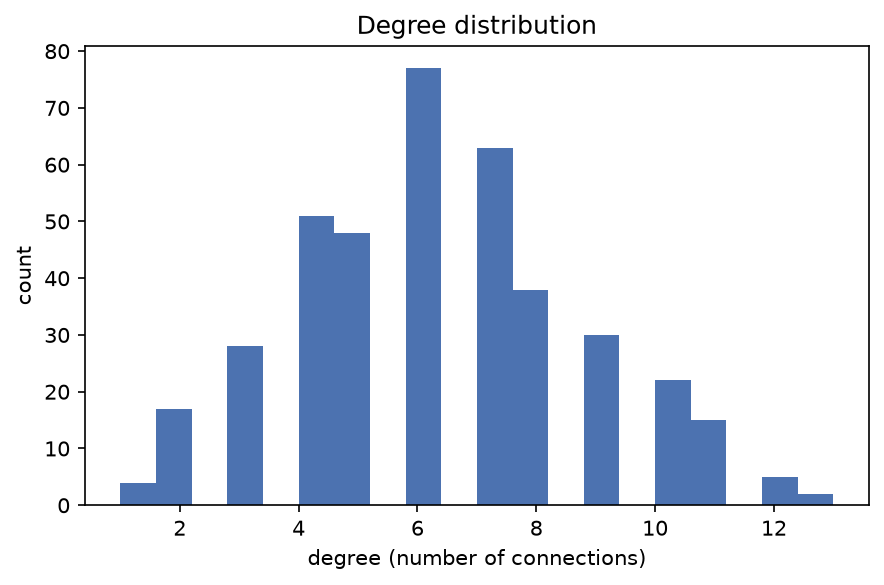
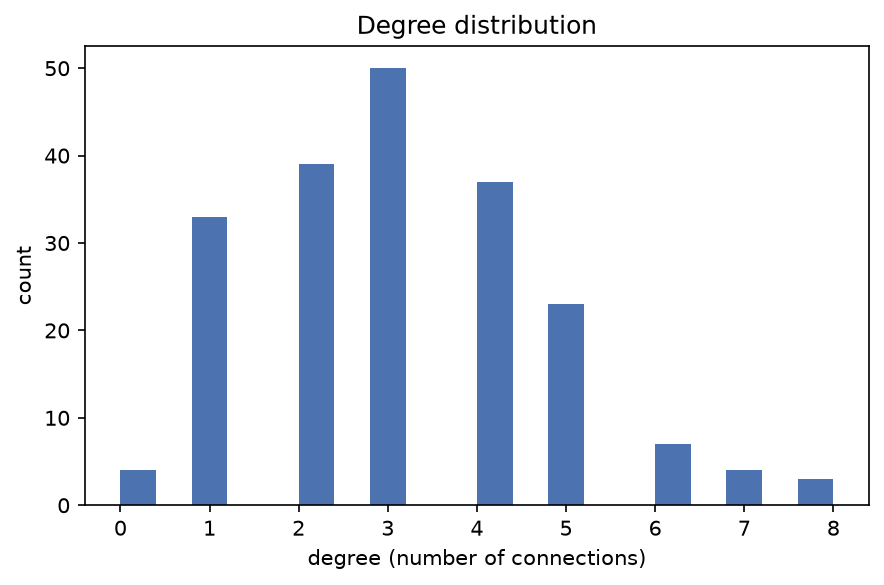
description of synthCity variables

diff --git a/synth_city/synth_city_details.py b/synth_city/synth_city_details.py
@@ -1,0 +1,117 @@
+import sys, os
+
+import matplotlib.cm as cm
+import matplotlib.colors as mcolors
+import matplotlib.pyplot as plt
+import networkx as nx
+import numpy as np
+import pandas as pd
+
+
+'''
+Set pathway for calling Synth City:
+'''
+def find_project_root(marker="requirements.txt"):
+    path = os.getcwd()
+    while path != os.path.dirname(path):  # stop at filesystem root
+        if os.path.exists(os.path.join(path, marker)):
+            return path
+        path = os.path.dirname(path)
+    raise FileNotFoundError(f"couldn't find project root (looking for {marker})")
+
+PROJECT_ROOT = find_project_root()
+if PROJECT_ROOT not in sys.path:
+    sys.path.insert(0, PROJECT_ROOT)
+
+from synth_city.scm.graph import SynthCity
+
+'''
+Set pathway for saving figures:
+'''
+FIGURES_DIR = os.path.join(os.path.dirname(__file__), "figures")
+os.makedirs(FIGURES_DIR, exist_ok=True)
+
+ 
+N = 10_000
+SEED = 0
+ 
+# Nodes worth plotting as distributions (excludes policy nodes -- those are
+# constants under a given policy, not distributions, so a histogram of them
+# is just a spike and not informative).
+STOCHASTIC_NODES = [
+    "ability", "risk_tolerance", "health_endowment", "parental_ses", "age",
+    "education", "social_network_position", "income", "mobility_access",
+    "health", "preferences",
+]
+ 
+LATENT_NODES = {"ability", "risk_tolerance", "health_endowment", "parental_ses", "age"}
+ 
+city = SynthCity(n_people=N, seed=SEED)
+df = city.sample()
+ 
+fig, axes = plt.subplots(4, 3, figsize=(13, 12))
+axes = axes.flatten()
+ 
+for ax, node in zip(axes, STOCHASTIC_NODES):
+    color = "#8172B2" if node in LATENT_NODES else "#4C72B0"
+    ax.hist(df[node], bins=40, color=color)
+    ax.set_title(node, fontsize=11)
+    ax.set_ylabel("count", fontsize=8)
+    ax.tick_params(labelsize=8)
+ 
+# hide the unused 12th subplot slot, and use it for a tiny legend instead
+axes[-1].axis("off")
+axes[-1].text(0.0, 0.7, "\u25A0 latent / exogenous", color="#8172B2", fontsize=11, transform=axes[-1].transAxes)
+axes[-1].text(0.0, 0.5, "\u25A0 endogenous", color="#4C72B0", fontsize=11, transform=axes[-1].transAxes)
+axes[-1].text(0.0, 0.25, f"n = {N:,}\nseed = {SEED}\npolicy = default", fontsize=9, transform=axes[-1].transAxes)
+ 
+fig.suptitle("Synth City \u2014 marginal distribution of every SCM node", fontsize=14)
+fig.tight_layout(rect=[0, 0, 1, 0.97])
+fig.savefig(os.path.join(FIGURES_DIR, "node_distributions.png"), dpi=150, bbox_inches="tight")
+ 
+# ---------------------------------------------------------------------------
+# Summary stats table
+# ---------------------------------------------------------------------------
+# ---------------------------------------------------------------------------
+# Summary stats table
+# ---------------------------------------------------------------------------
+summary = df[STOCHASTIC_NODES].describe().T[["mean", "std", "min", "max"]]
+summary.insert(0, "type", ["latent" if n in LATENT_NODES else "endogenous" for n in STOCHASTIC_NODES])
+for col in ["mean", "std", "min", "max"]:
+    summary[col] = summary[col].map(lambda x: f"{x:,.2f}")
+print(summary)
+ 
+# render the table as a PNG instead of a CSV
+n_rows, n_cols = summary.shape
+fig_table, ax_table = plt.subplots(figsize=(8, 0.45 * n_rows + 1))
+ax_table.axis("off")
+ 
+cell_text = summary.reset_index().rename(columns={"index": "node"}).values
+col_labels = ["node", "type", "mean", "std", "min", "max"]
+ 
+table = ax_table.table(
+    cellText=cell_text,
+    colLabels=col_labels,
+    cellLoc="center",
+    loc="center",
+)
+table.auto_set_font_size(False)
+table.set_fontsize(9)
+table.auto_set_column_width(col=list(range(len(col_labels))))
+table.scale(1, 1.5)
+ 
+# color the header row and alternate row shading for readability
+for (row, col), cell in table.get_celld().items():
+    if row == 0:
+        cell.set_facecolor("#6fbef2")
+        cell.set_text_props(color="white", weight="bold")
+    elif row % 2 == 0:
+        cell.set_facecolor("#fcfeff")
+ 
+ax_table.set_title("Synth City \u2014 node summary statistics", fontsize=12, pad=12)
+fig_table.tight_layout()
+fig_table.savefig(os.path.join(FIGURES_DIR, "node_summary_stats.png"), dpi=150, bbox_inches="tight")
+ 
+print(f"\nfigure saved to {os.path.join(FIGURES_DIR, 'node_distributions.png')}")
+print(f"stats table saved to {os.path.join(FIGURES_DIR, 'node_summary_stats.png')}")
+ 

diff --git a/synth_city/scm/nodes.py b/synth_city/scm/nodes.py
@@ -44,7 +44,13 @@ def f_parental_ses(rng: np.random.Generator, n: int, **_) -> np.ndarray:
 
 
 def f_age(rng: np.random.Generator, n: int, **_) -> np.ndarray:
-    return rng.uniform(18, 75, n)
+    # a rough population pyramid instead of flat: more young/working-age
+    # people than elderly, via a mixture of two normals
+    is_older = rng.random(n) < 0.3
+    younger = rng.normal(32, 8, n)
+    older = rng.normal(58, 10, n)
+    age = np.where(is_older, older, younger)
+    return np.clip(age, 18, 75)
 
 
 # ---------------------------------------------------------------------------
@@ -109,8 +115,12 @@ def f_income(
         - 0.3 * (age - 45) ** 2
         + 1_800 * social_network_position
         + 2_500 * ability
-        + rng.normal(0, 6_000, n)
     )
+    # multiplicative lognormal noise instead of additive normal noise --
+    # keeps income right-skewed the way real income distributions actually are,
+    # rather than skewed only by the min-wage floor truncating the left tail
+    noise_multiplier = rng.lognormal(mean=0.0, sigma=0.18, size=n)
+    base = base * noise_multiplier
     after_tax = base * (1 - tax_rate)
     annual_floor = min_wage * 2_080  # ~40 hrs/week * 52 weeks
     return np.maximum(after_tax, annual_floor)

diff --git a/quantitative_anaysis/causal_inference/direct-intervention- effects/.ipynb_checkpoints/minimum_wage_effect-checkpoint.py b/quantitative_anaysis/causal_inference/direct-intervention- effects/.ipynb_checkpoints/minimum_wage_effect-checkpoint.py
@@ -267,7 +267,7 @@ at a glance, plus a degree distribution as a sanity-check/companion plot.
 
 from synth_city.network.social_graph import build_social_graph
 
-N = 400  # kept small on purpose -- a network plot of 8000 nodes is an unreadable hairball
+N = 200  # kept small on purpose -- a network plot of 8000 nodes is an unreadable hairball
 SEED = 0
 
 city = SynthCity(n_people=N, seed=SEED)

diff --git a/quantitative_anaysis/causal_inference/direct-intervention- effects/minimum_wage_effect.py b/quantitative_anaysis/causal_inference/direct-intervention- effects/minimum_wage_effect.py
@@ -267,7 +267,7 @@ at a glance, plus a degree distribution as a sanity-check/companion plot.
 
 from synth_city.network.social_graph import build_social_graph
 
-N = 400  # kept small on purpose -- a network plot of 8000 nodes is an unreadable hairball
+N = 200  # kept small on purpose -- a network plot of 8000 nodes is an unreadable hairball
 SEED = 0
 
 city = SynthCity(n_people=N, seed=SEED)

diff --git a/synth_city/README.md b/synth_city/README.md
@@ -1,0 +1,75 @@
+
+# City structural causal model
+
+A visual tour of every variable in the Synth City structural causal model; useful both as a "what does this world actually look like" overview and as a sanity check whenever a structural equation in nodes.py changes 
+
+Script: synth_city_details.py 
+Population: n = 10,000, seed = 0, default policy
+
+
+![variable distribution](./figures/node_distributions.png)
+
+
+## Notes
+
+Variable-by-variable, what each distribution actually is and what it's measured in:
+
+- **`ability`, `risk_tolerance`, `health_endowment`, `parental_ses`** — latent, standard
+  normal, unitless (z-score scale by construction, mean 0 / std 1). These are pure inputs,
+  not measured in any real-world unit — think of them as standardized traits.
+
+- **`age`** — years, range [18, 75]. **No longer uniform** — it's a mixture of two normals
+  (peaks around 32 and 58, 70/30 split) meant to look more like a population pyramid than a
+  flat draw. Clipping to [18, 75] leaves small pile-ups at both boundaries, the same
+  artifact as the `education` spike below, just at two points instead of one.
+
+- **`education`** — years of schooling, range [6, 22], mean ≈ 10.2, std ≈ 3.0. Still has the
+  **spike at 6**: the structural equation clips raw draws to [6, 22], and enough of the
+  underlying distribution falls below 6 that it piles up at the floor instead of trailing
+  off smoothly. Any analysis conditioning on "lowest education" is conditioning on a point
+  mass, not a tail.
+
+- **`social_network_position`** — standardized score, unitless, mean ≈ 0, std ≈ 1.3.
+  Roughly normal-shaped, no clipping, so no boundary artifacts.
+
+- **`income`** — US dollars (annual), mean ≈ $43,061, std ≈ $13,595, range
+  [$15,080, $116,295]. **This changed materially**: noise is now multiplicative lognormal
+  rather than additive normal, so the right skew you see is a real distributional feature,
+  not just an artifact of the minimum-wage floor truncating the left tail. The floor
+  (`min_wage × 2080`) still sets the hard minimum at $15,080, but the long right tail out to
+  $116k is new — lognormal noise, unlike normal noise, can multiply a high base income into
+  a much larger draw, which is exactly the kind of tail real income distributions have.
+
+- **`mobility_access`** — standardized score, unitless, mean ≈ 0.86, std ≈ 0.64. Roughly
+  normal, no clipping.
+
+- **`health`** — standardized score, unitless, mean ≈ 1.54, std ≈ 5.27 — the widest relative
+  spread of any endogenous node. It's downstream of three separately noisy nodes
+  (`health_endowment`, `income`, `mobility_access`), so variance compounds with each hop
+  rather than averaging out.
+
+- **`preferences`** — standardized score, unitless, mean ≈ 0.44, std ≈ 1.11. Roughly normal.
+
+
+![table](./figures/node_summary_stats.png)
+
+## Reproduce
+
+```bash
+python3 quantitative_analysis/ds/synth_city_details.py
+```
+
+
+
+## Reproduce
+
+```bash
+python3 quantitative_analysis/ds/synth_city_details.py
+```
+
+
+
+ 
+### Reproduce
+bash
+python synth_city_details.py

diff --git a/README.md b/README.md
@@ -3,7 +3,6 @@
 A synthetic city simulation framework for benchmarking causal inference methods, data science techniques,experimentation, marketing mix modeling, and game-theory auctions — with known ground truth, because the population is generated from a structural causal model rather than collected.
 
 
-
 ## Quantitative analysis
 
 Write-ups with results and figures, organized by domain: quantitative_analysis/
@@ -41,7 +40,4 @@ synth_city/
 
 ### Roadmap
 See synth_city_architecture.md for the full design — this repo currently implements Stage 1 (the simulator); Stages 2–4 (estimators, learned behavioral agents, and RL over city policy) are in progress.
-
-
-
 

diff --git a/quantitative_anaysis/causal_inference/README.md b/quantitative_anaysis/causal_inference/README.md
@@ -7,7 +7,6 @@ and a basic homophilous social graph generator.
 
 
 
-
 ## Install
 
 ```bash
